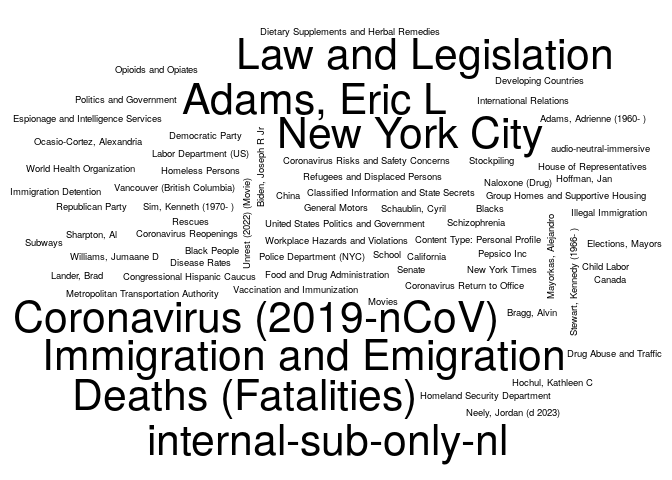
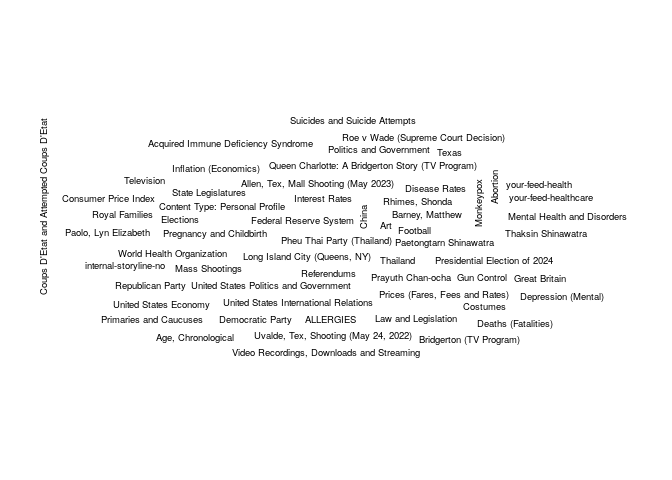
Updating the NYT report

Changed region(s): [[0.0, 0.0625, 1.0, 0.9688]]

diff --git a/03-nytimes/README.md b/03-nytimes/README.md
@@ -5,7 +5,7 @@ The following is an example of how to use the [NYTimes
 API](https://developer.nytimes.com/) to get a list of articles related
 to a particular term. Here we are searching articles that include the
 term `"health"`, and that were published up to seven days ago since
-2023-05-08.
+2023-05-15.
 
 ``` r
 # Preparing a function to use the GET method with the NYTimes API
@@ -83,25 +83,25 @@ colnames(tab) <- c("Keyword", "# Articles")
 knitr::kable(tab, row.names = FALSE)
 ```
 
-| Keyword                     | \# Articles |
-|:----------------------------|------------:|
-| audio-neutral-informative   |          15 |
-| Adams, Eric L               |          10 |
-| Content Type: Service       |          10 |
-| Coronavirus (2019-nCoV)     |          10 |
-| Deaths (Fatalities)         |          10 |
-| Immigration and Emigration  |          10 |
-| internal-sub-only-nl        |          10 |
-| Law and Legislation         |          10 |
-| Mental Health and Disorders |          10 |
-| New York City               |          10 |
-| Adams, Adrienne (1960- )    |           5 |
-| audio-neutral-immersive     |           5 |
-| Biden, Joseph R Jr          |           5 |
-| Black People                |           5 |
-| Blacks                      |           5 |
-| Bragg, Alvin                |           5 |
-| California                  |           5 |
-| Canada                      |           5 |
-| Child Labor                 |           5 |
-| China                       |           5 |
+| Keyword                                 | \# Articles |
+|:----------------------------------------|------------:|
+| Polls and Public Opinion                |          10 |
+| Abortion                                |           5 |
+| Acquired Immune Deficiency Syndrome     |           5 |
+| Age, Chronological                      |           5 |
+| Allen, Tex, Mall Shooting (May 2023)    |           5 |
+| ALLERGIES                               |           5 |
+| Art                                     |           5 |
+| Barney, Matthew                         |           5 |
+| Bridgerton (TV Program)                 |           5 |
+| China                                   |           5 |
+| Consumer Price Index                    |           5 |
+| Content Type: Personal Profile          |           5 |
+| Costumes                                |           5 |
+| Coups D’Etat and Attempted Coups D’Etat |           5 |
+| Deaths (Fatalities)                     |           5 |
+| Democratic Party                        |           5 |
+| Depression (Mental)                     |           5 |
+| Disease Rates                           |           5 |
+| Elections                               |           5 |
+| Federal Reserve System                  |           5 |
